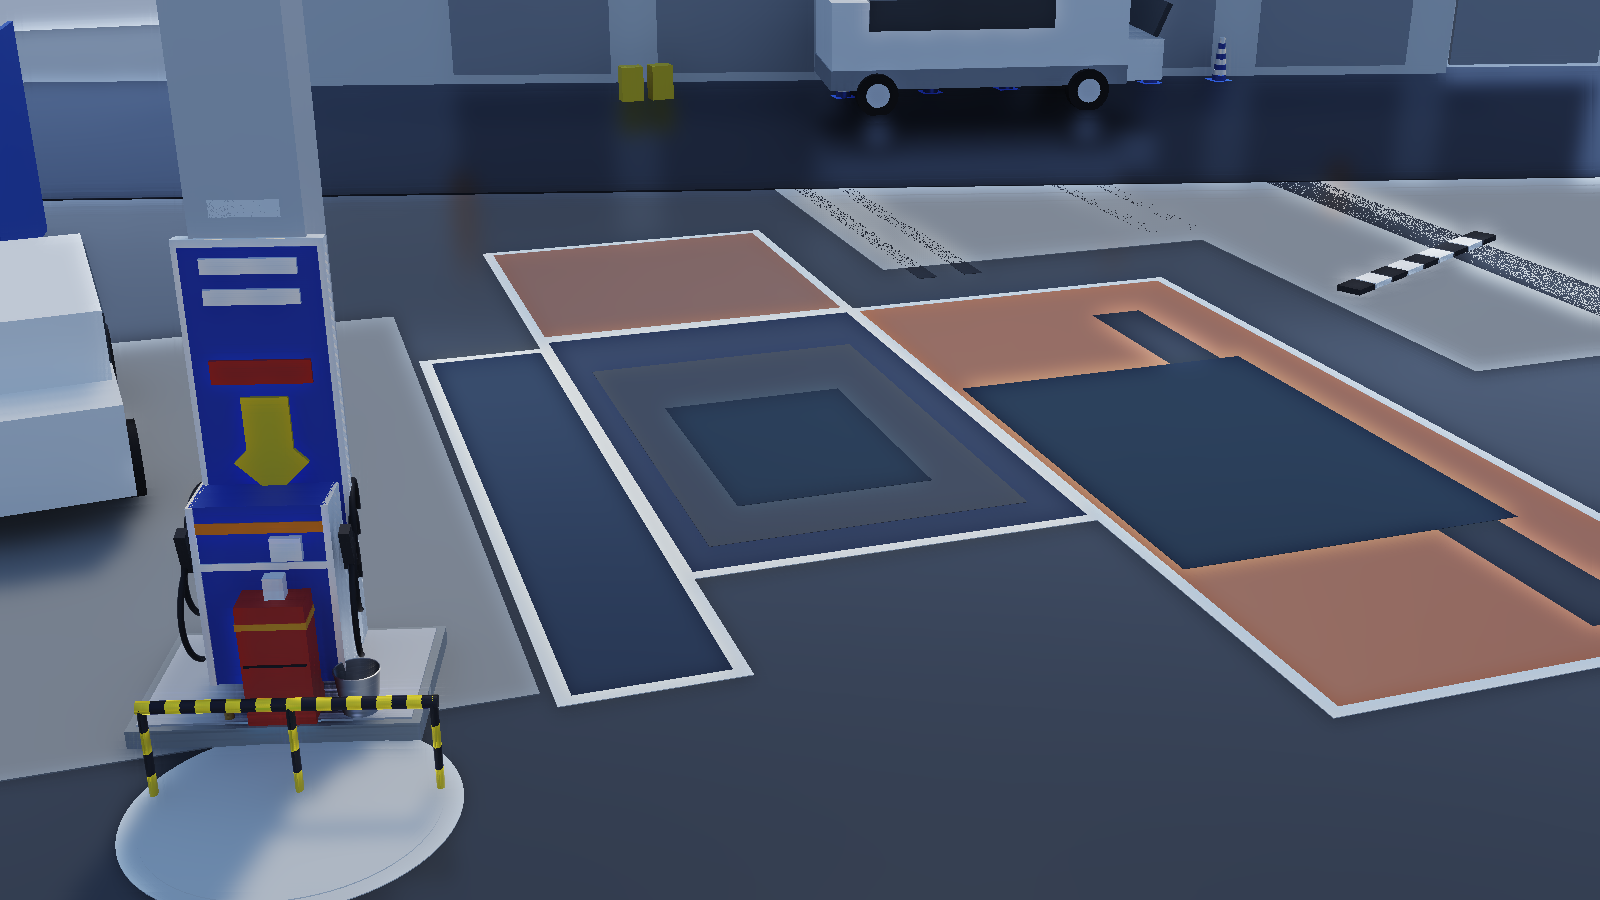
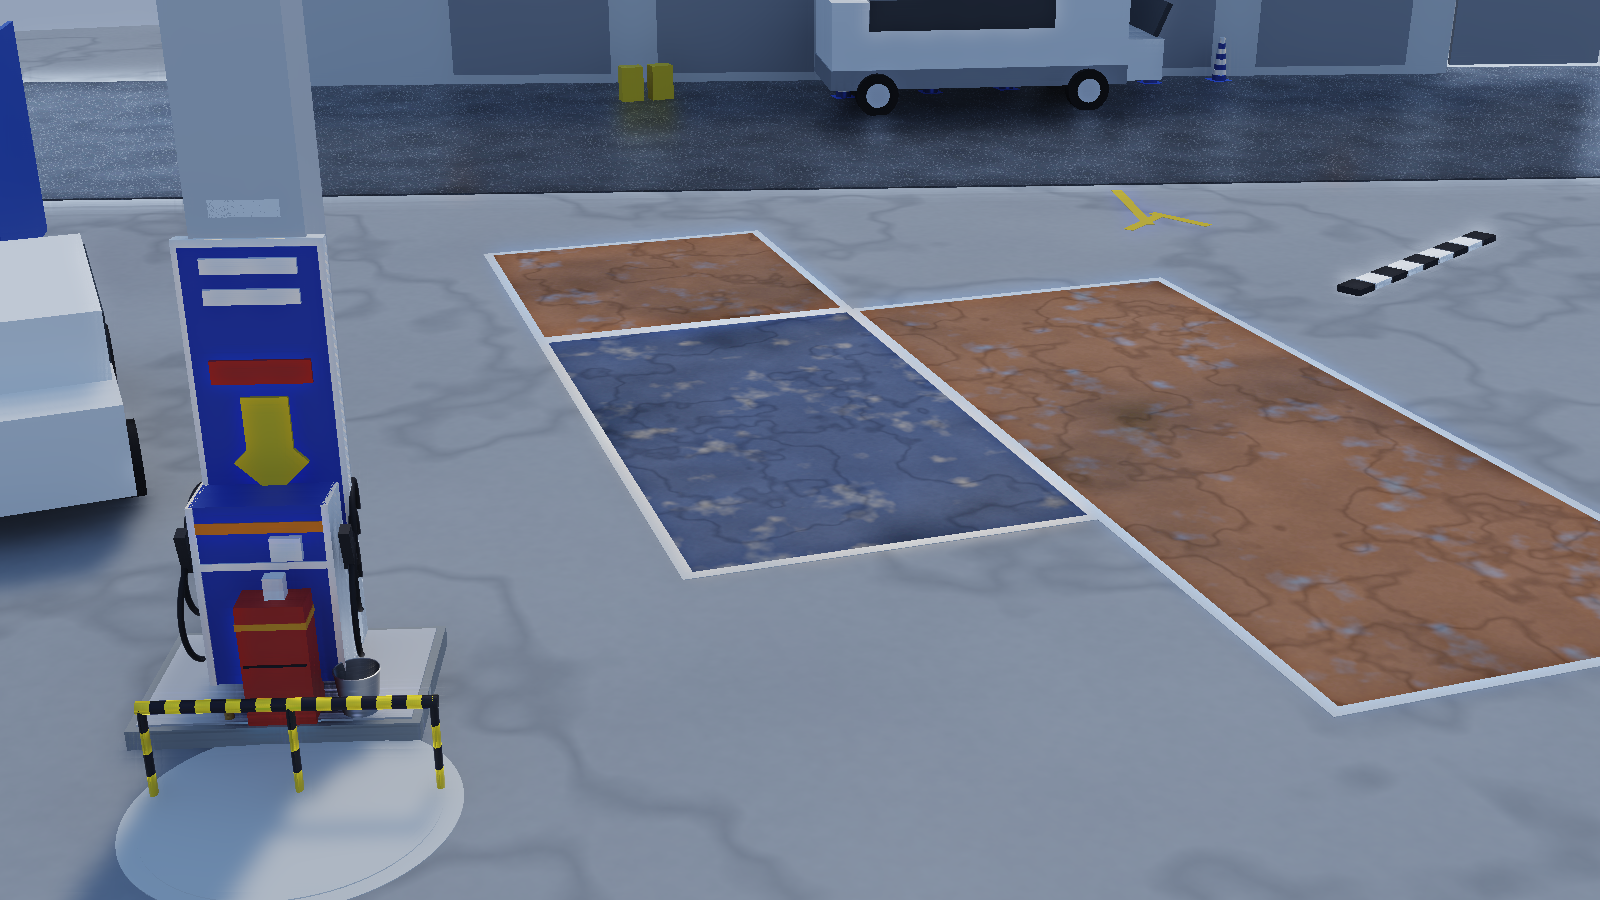
case 26: give the wet forecourt real PBR textures, killing the bullseye
The floor was a dozen flat near-black fills stacked into nested rectangles, and
the blue bay's wet centre was three concentric slabs that read as a dartboard.
Replace all of it with triplanar PBR maps: a new procedural forecourt material
set (damp concrete, wet asphalt, weathered blue and orange bays) whose staining,
wear, cracks and standing water are organic and per-texel. The wet-overcast idea
is unchanged (a dark surface whose contrast is the bright sky mirrored in its
low-roughness patches) but it no longer reads as concentric geometry, and the
apron is a believable even grey instead of leopard-print flat colour.

textures.py gains _concrete, _asphalt and _painted_bay generators (tileable fBm,
crack networks, normal-from-height) plus four library entries. Case 26's mat()
learns maps and uv_scale and lays one textured slab per surface, so there is no
overlay stack and no z-fight. The engine texture path already existed; this makes
the outdoor wet-floor materials reusable.

diff --git a/src/mirage/textures.py b/src/mirage/textures.py
@@ -217,6 +217,83 @@ def _marble(res: int, seed: int, col_a, col_b):
     return albedo, rough, normal
 
 
+# --------------------------------------------------------------------------- #
+# outdoor / forecourt materials — the wet petrol-station floor
+# --------------------------------------------------------------------------- #
+def _crack_net(res: int, seed: int, period: int, thresh: float, sharp: float = 12.0):
+    """A connected network of thin cracks in [0,1] (1 = crack). The valleys of ridged noise
+    form a branching web the way a real crack does — one line splitting, not scattered dots."""
+    ridged = 1.0 - np.abs(2.0 * _fbm(res, period, 4, seed) - 1.0)
+    return np.clip((ridged - thresh) * sharp, 0, 1)
+
+
+def _concrete(res: int, seed: int, col, crack=0.7, stain=0.8, wet=0.7):
+    """Damp concrete apron: broad tonal mottle, fine aggregate, a web of hairline cracks and
+    dark oil/water staining pooled in the low spots. `wet` drops roughness inside the stains so
+    they read as a wet sheen rather than more grey paint — the contrast is the wetness."""
+    mott = _fbm(res, 6, 4, seed)                       # slab-scale tone variation (gentle)
+    fine = _fbm(res, 150, 3, seed + 5)                 # aggregate speckle
+    cracks = _crack_net(res, seed + 9, period=5, thresh=0.91) * crack
+    st = _fbm(res, 4, 4, seed + 17)                    # damp areas
+    # A real wet-concrete apron is nearly uniform grey: the variation you see is the SKY
+    # mirrored in the damp patches, i.e. a roughness cue, not a dark-blob albedo camo.
+    wet_patch = np.clip((0.44 - st) * 1.8, 0, 1) ** 1.5
+    tone = 0.92 + 0.13 * mott + 0.06 * (fine - 0.5)
+    base = np.stack(col, -1)[None, None] * tone[..., None]
+    base = base * (1 - 0.14 * stain * wet_patch[..., None])   # damp only slightly darker in albedo
+    base = base * (1 - 0.50 * cracks[..., None])              # joints/cracks darkest
+    albedo = np.clip(base, 0, 1)
+    rough = 0.72 - 0.06 * (mott - 0.5) - wet * 0.50 * wet_patch + 0.06 * cracks
+    rough = np.clip(rough, 0.10, 0.95)
+    height = mott * 0.18 + fine * 0.16 - cracks * 0.8
+    normal = _normal_from_height(height, strength=0.9)
+    return albedo, rough, normal
+
+
+def _asphalt(res: int, seed: int, col):
+    """Wet asphalt road: fine light aggregate flecked through a near-black matrix, low
+    roughness so the overcast sky mirrors in it as a cool sheen."""
+    grain = _fbm(res, 210, 2, seed)                    # tight speckle = the stones
+    stones = np.clip((grain - 0.62) * 4.0, 0, 1)
+    mott = _fbm(res, 6, 3, seed + 3)
+    base = np.stack(col, -1)[None, None] * (0.7 + 0.6 * mott[..., None])
+    base = base + stones[..., None] * 0.055            # grey stone flecks lift the black
+    albedo = np.clip(base, 0, 1)
+    rough = np.clip(0.14 + 0.50 * stones - 0.06 * (mott - 0.5), 0.06, 0.60)
+    height = grain * 0.40 + mott * 0.10
+    normal = _normal_from_height(height, strength=0.7)
+    return albedo, rough, normal
+
+
+def _painted_bay(res: int, seed: int, paint, concrete, wet=0.6, faded=0.0):
+    """A weathered painted forecourt bay. The paint is worn through to the concrete in patches,
+    fine-cracked, and — the point of the whole exercise — stained with big ORGANIC dark wet
+    lobes pooled in the low spots. The photo's blue bay is that: irregular standing water, not a
+    rectangle nested inside a rectangle. `wet` sets how glossy the pools are, `faded` dulls the
+    dry paint. All the weathering lives here so the scene can lay ONE slab, not a stack."""
+    mott = _fbm(res, 12, 4, seed)                      # paint laid unevenly
+    fine = _fbm(res, 150, 3, seed + 5)
+    wear = np.clip((_fbm(res, 18, 4, seed + 11) - 0.60) * 3.0, 0, 1) ** 1.4   # rubbed to concrete
+    st = _fbm(res, 3, 4, seed + 17)                    # the organic wet pools
+    wet_mask = np.clip((0.54 - st) * 2.2, 0, 1) ** 1.3
+    # only a few hairline cracks on a bay — the WET POOLS are the story, not a mud-crack web
+    cracks = _crack_net(res, seed + 23, period=8, thresh=0.91) * 0.55
+    paint_c = np.stack(paint, -1)[None, None]
+    conc_c = np.stack(concrete, -1)[None, None]
+    col = _lerp(paint_c, conc_c, wear[..., None])                   # worn paint -> concrete
+    col = col * (0.86 + 0.28 * mott[..., None]) * (0.94 + 0.12 * (fine[..., None] - 0.5))
+    col = _lerp(col, col * 0.30, wet_mask[..., None])              # standing water darkens
+    col = col * (1 - faded * 0.28)
+    col = col * (1 - 0.42 * cracks[..., None])
+    albedo = np.clip(col, 0, 1)
+    rough = 0.60 + 0.18 * wear - 0.10 * (mott - 0.5)               # matte paint, rougher where worn
+    rough = _lerp(rough, np.full_like(rough, 0.11), wet * wet_mask)  # glossy pools
+    rough = np.clip(rough, 0.08, 0.92)
+    height = mott * 0.20 + fine * 0.15 - cracks * 0.6 - wet_mask * 0.30 - wear * 0.10
+    normal = _normal_from_height(height, strength=1.0)
+    return albedo, rough, normal
+
+
 # name -> generator thunk
 _LIBRARY = {
     "wood_floor":  lambda: _wood(RES, 11, (0.30, 0.18, 0.09), (0.52, 0.34, 0.18), plank=7, warp_amt=0.7, grain_freq=34),
@@ -233,6 +310,12 @@ _LIBRARY = {
     "wood_veneer": lambda: _veneer(RES, 83, (0.105, 0.052, 0.028), (0.175, 0.093, 0.050)),
     "plaster":     lambda: _plaster(RES, 61, (0.84, 0.80, 0.73)),
     "marble":      lambda: _marble(RES, 71, (0.86, 0.85, 0.82), (0.42, 0.44, 0.48)),
+    # the wet petrol-station forecourt (case 26). Albedos are honest surface colours; the
+    # scene's dark wet look comes from the roughness pools mirroring a bright overcast sky.
+    "forecourt_concrete": lambda: _concrete(RES, 101, (0.30, 0.31, 0.32), crack=0.35, stain=0.5, wet=0.7),
+    "asphalt_wet":        lambda: _asphalt(RES, 107, (0.050, 0.055, 0.063)),
+    "bay_blue":           lambda: _painted_bay(RES, 113, (0.075, 0.105, 0.185), (0.30, 0.30, 0.29), wet=0.85),
+    "bay_orange":         lambda: _painted_bay(RES, 127, (0.355, 0.150, 0.065), (0.32, 0.29, 0.25), wet=0.40, faded=0.40),
 }
 
 
@@ -261,7 +344,8 @@ def _recipe_id(name: str) -> str:
     # the thunk's captured constants (colours, seeds, plank counts...)
     parts += [repr(c) for c in (fn.__code__.co_consts or ()) if c is not None]
     # and the generator it calls, so editing _leather() alone still invalidates
-    for gen in (_wood, _veneer, _fabric, _plaster, _leather, _marble, _normal_from_height, _fbm):
+    for gen in (_wood, _veneer, _fabric, _plaster, _leather, _marble, _concrete, _asphalt,
+                _painted_bay, _crack_net, _normal_from_height, _fbm):
         parts.append(gen.__name__)
         parts.append(hashlib.sha1(gen.__code__.co_code).hexdigest()[:8])
     return hashlib.sha1("|".join(parts).encode()).hexdigest()[:16]

diff --git a/examples/cases/26_forecourt.py b/examples/cases/26_forecourt.py
@@ -25,6 +25,7 @@ from pathlib import Path
 
 from mirage.capture import default_render
 from mirage.meshlang import MeshProgram
+from mirage.textures import ensure_textures
 
 ROOT = Path(__file__).resolve().parents[2]
 RENDER = default_render()
@@ -43,11 +44,21 @@ BIG = 500.0
 # ---- palette ------------------------------------------------------------------- #
 # Sampled from the reference and converted sRGB -> linear, then lifted for the fact that a
 # photo's pixel is albedo x light x tonemap, not albedo.
-def mat(c, metallic=0.0, roughness=0.5, emission=None):
+def mat(c, metallic=0.0, roughness=0.5, emission=None, maps=None, uv_scale=1.0):
     m = {"color": list(c), "metallic": metallic, "roughness": roughness}
     if emission:
         m["emission"] = list(emission)
+    if maps:                                 # real triplanar PBR maps; uv_scale = m per tile.
+        m["albedo_map"] = str(maps["albedo"]); m["roughness_map"] = str(maps["rough"])
+        m["normal_map"] = str(maps["normal"]); m["uv_scale"] = uv_scale
     return m
+
+
+# Real PBR map sets for the wet forecourt floor (albedo / roughness / normal), generated on
+# demand into assets/textures/. The wet look is carried by the roughness pools mirroring the
+# sky, not by flat near-black fills -- and the bays' staining is ORGANIC, baked into the map,
+# which is what finally kills the "rectangle nested in a rectangle" bullseye.
+TEX = ensure_textures(["forecourt_concrete", "asphalt_wet", "bay_blue", "bay_orange"])
 
 
 CONCRETE  = mat((0.30, 0.305, 0.295), 0.0, 0.72)    # dry plinth kerb / circle infill
@@ -72,26 +83,19 @@ SHUTTER   = mat((0.34, 0.35, 0.36), 0.3, 0.45)
 BANNER_BL = mat((0.03, 0.10, 0.42), 0.0, 0.55)
 CONE_BL   = mat((0.05, 0.09, 0.34), 0.0, 0.50)
 
-# Wet-overcast ground. The whole forecourt is a mirror of a bright sky, so the wet surfaces
-# are near-BLACK diffuse with a low-roughness specular that carries the reflection: the
-# contrast IS the wetness. A light matte grey (what "damp concrete" naively wants to be) kills
-# it. Sampled darker than the photo's pixels, because a photo pixel is albedo x light, and the
-# reflection supplies the light. See the render notes at the foot of the file.
-WET_CONC  = mat((0.058, 0.061, 0.066), 0.0, 0.14)    # damp concrete slab
-DRY_CONC  = mat((0.255, 0.255, 0.247), 0.0, 0.66)    # the drier apron patches (matte)
-WET_STRK  = mat((0.030, 0.032, 0.037), 0.0, 0.10)    # darker wet streaks
-TYRE_MK   = mat((0.045, 0.045, 0.047), 0.0, 0.55)    # dry tyre-scuff, matte
-ASPH_W    = mat((0.018, 0.020, 0.024), 0.0, 0.10)    # wet asphalt road, near-black mirror
-# The bays are soaked-MATTE, not mirrors: a broad specular lobe (roughness ~0.3-0.45) reflects
-# the sky and column as a soft sheen the denoiser can clean, where a sharp lobe left a firefly
-# triangle it could not (the reflected column is not in its albedo/normal guide buffer).
-SLATE_W   = mat((0.034, 0.044, 0.072), 0.0, 0.18)    # the blue bay, soaked
-SHEET_W   = mat((0.050, 0.055, 0.066), 0.0, 0.30)    # the blue bay's wettest sheet
-TERRA_D   = mat((0.360, 0.135, 0.072), 0.0, 0.44)    # terracotta, drier
-TERRA_F   = mat((0.260, 0.125, 0.085), 0.0, 0.42)    # faded terracotta beyond
-NAVY_W    = mat((0.028, 0.038, 0.062), 0.0, 0.16)    # the dark strip by the island
-PUDDLE    = mat((0.022, 0.028, 0.040), 0.0, 0.26)    # standing water, broad soft reflection
 LINE_W    = mat((0.60, 0.605, 0.59), 0.0, 0.58)      # painted lines, damp
+
+# Textured floor (triplanar PBR maps, generated above). This replaced a dozen flat near-black
+# fills stacked into nested rectangles: the wet-overcast look is the SAME idea -- a dark
+# surface whose contrast is the bright sky mirrored in its low-roughness patches -- but now the
+# staining, wear, cracks and standing water live in the maps, organic and per-texel, instead of
+# reading as a dartboard of concentric slabs. uv_scale is world-metres per tile: sized so the
+# staining reads at puddle scale and each bay is about one tile, so no two bays look cloned
+# (triplanar projects world x,y, and the bays sit at different world positions).
+APRON     = mat((0.30, 0.31, 0.32), 0.0, 0.6, maps=TEX["forecourt_concrete"], uv_scale=12.0)
+ROAD      = mat((0.05, 0.055, 0.063), 0.0, 0.3, maps=TEX["asphalt_wet"],       uv_scale=4.0)
+BAY_BLUE  = mat((0.10, 0.13, 0.24), 0.0, 0.5, maps=TEX["bay_blue"],            uv_scale=5.5)
+BAY_ORNG  = mat((0.44, 0.17, 0.06), 0.0, 0.5, maps=TEX["bay_orange"],          uv_scale=6.0)
 
 # The scene's forward axis (the bay's long edge, world +y) is not square to the building line
 # behind it; the yard and road sit at this yaw.
@@ -118,35 +122,28 @@ def slab(p, x0, x1, y0, y1, z, t, material):
 # where it saw it, and a projection overlay on the photo confirmed the fit before any render.
 def forecourt():
     p = MeshProgram()
-    p.place(box(44, 48, 0.4), at=[6, 8, -0.2], material=WET_CONC)            # the damp slab
-    for cx, cy, sx, sy in [(9, 10.5, 9, 6), (13, 6, 8, 8), (-4, 3, 5, 9)]:   # drier patches
-        p.place(box(sx, sy, 0.01), at=[cx, cy, 0.006], material=DRY_CONC)
-    p.place(box(40, 9.5, 0.03), at=[7, 16.2, 0.012], rotate=[0, 0, ANG], material=ASPH_W)
-    LW = 0.12
-    bays = [(0, 3.47, 0, 6, SLATE_W), (3.62, 7.5, -3.4, 6.0, TERRA_D),
-            (0, 3.47, 6.2, 9.7, TERRA_F), (-1.30, -0.14, -1.6, 5.7, NAVY_W)]
+    # the damp concrete apron: ONE textured slab. Aggregate, hairline cracks, and dark
+    # oil/water staining all live in the map; the wet sheen is the map's low-roughness pools
+    # mirroring the sky, not a flat near-black fill.
+    p.place(box(44, 48, 0.4), at=[6, 8, -0.2], material=APRON)
+    # the wet asphalt beyond the bays (the road edge and forecourt run-off)
+    p.place(box(40, 9.5, 0.03), at=[7, 16.2, 0.012], rotate=[0, 0, ANG], material=ROAD)
+    LW = 0.11
+    # the painted bays, each ONE textured slab. The worn paint, the fine cracks and the
+    # ORGANIC standing water are baked into the bay map -- so there are no stacked overlay
+    # rectangles (which read as a dartboard) and no overlapping top faces to z-fight.
+    bays = [(0, 3.47, 0, 6, BAY_BLUE), (3.62, 7.5, -3.4, 6.0, BAY_ORNG),
+            (0, 3.47, 6.2, 9.7, BAY_ORNG)]
     for x0, x1, y0, y1, m in bays:
         slab(p, x0, x1, y0, y1, 0.004, 0.006, m)
         for lx in (x0 - LW, x1):
             slab(p, lx, lx + LW, y0 - LW, y1 + LW, 0.006, 0.006, LINE_W)
         for ly in (y0 - LW, y1):
             slab(p, x0 - LW, x1 + LW, ly, ly + LW, 0.006, 0.006, LINE_W)
-    # the soaked centre of the blue bay + wet sheets bridging into the terracotta. DISTINCT
-    # heights on purpose: overlapping slabs that share a top face z-fight, and the denoiser
-    # smears that flicker into a grainy triangular patch that no spp or roughness removes.
-    for x0, x1, y0, y1, z, m in [(0.25, 3.1, 0.4, 4.9, 0.014, SHEET_W),
-                                 (0.7, 2.5, 1.1, 3.6, 0.018, PUDDLE),
-                                 (3.7, 6.9, -1.2, 3.2, 0.016, PUDDLE)]:
-        slab(p, x0, x1, y0, y1, z, 0.003, m)
-    # tyre tracks and wet streaks that break the flat sheet
-    for x, y0, y1, ww, m in [(4.9, 7, 15, 0.24, WET_STRK), (5.5, 7, 15, 0.24, WET_STRK),
-                             (8.6, 8, 16, 0.24, TYRE_MK), (9.2, 8, 16, 0.24, TYRE_MK),
-                             (12.0, 3, 12, 0.8, WET_STRK), (6.4, -3, 5, 0.6, WET_STRK)]:
-        slab(p, x - ww / 2, x + ww / 2, y0, y1, 0.007, 0.004, m)
     # the white circle painted around the island (centre + radius measured), the yellow arrow
     p.place(MeshProgram().cylinder(sides=72, radius=1.03, height=0.006)
             .place(MeshProgram().cylinder(sides=72, radius=0.91, height=0.02),
-                   at=[0, 0, 0], material=WET_CONC),
+                   at=[0, 0, 0], material=APRON),
             at=[-3.20, -2.44, 0.004], material=LINE_W)
     p.place(box(0.15, 2.0, 0.006), at=[9.0, 9.4, 0.004], rotate=[0, 0, ANG], material=YELLOWP)
     for s in (-1, 1):